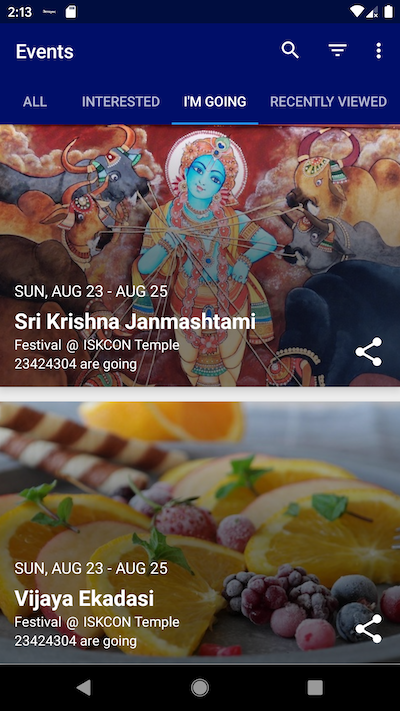
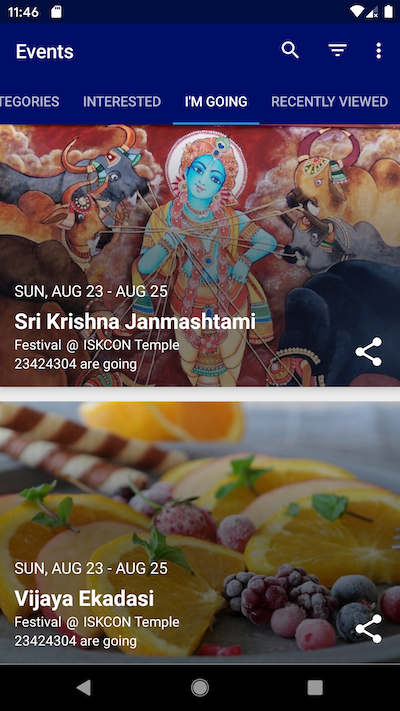
updated shots

diff --git a/README.md b/README.md
@@ -42,5 +42,10 @@ Its a fully featured Events App for participating and/or hosting an event!
 👆Event Creation
 
 
+![alt text](https://github.com/Singularity-Coder/The-Events-App/blob/master/s8.png)
+
+👆Event Categories
+
+
 
 
